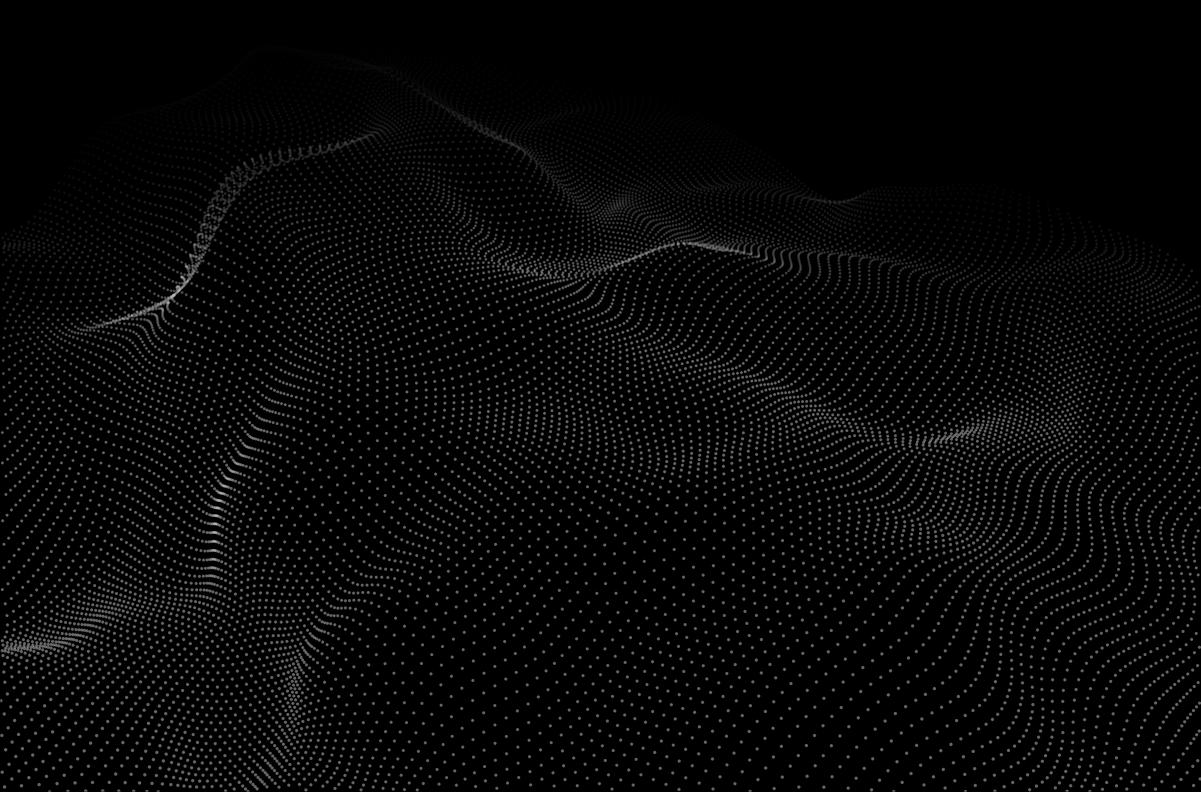
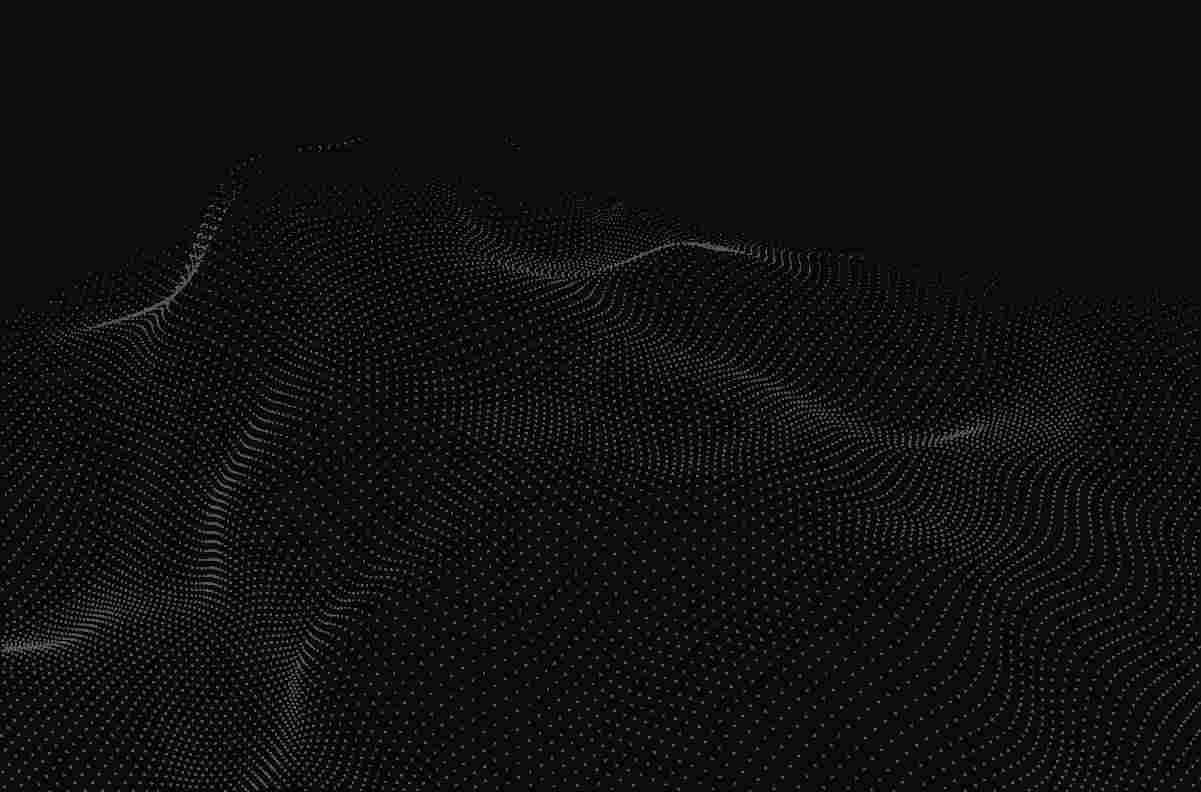
Eliminate the Over load

diff --git a/index.html b/index.html
@@ -6,13 +6,13 @@
     <meta charset="UTF-8" />
     <meta name="viewport" content="width=device-width, initial-scale=1.0" />
     <title>CoudTech-Website(Official)</title>
-    <link rel="preload" href="https://fonts.googleapis.com" />
-    <link rel="preload" href="https://fonts.gstatic.com" crossorigin />
+    <link rel="stylesheet" href="https://fonts.googleapis.com" />
+    <link rel="stylesheet" href="https://fonts.gstatic.com" crossorigin />
     <link
       href="https://fonts.googleapis.com/css2?family=Roboto:ital,wght@0,100;0,300;0,400;0,500;0,700;0,900;1,100;1,300;1,400;1,500;1,700;1,900&display=swap"
       rel="stylesheet" />
-    <link rel="preload" href="Asset/css/bootstrap.min.css" as="style" onload="this.rel='stylesheet'" defer>
-    <link rel="preload" href="Asset/css/all.min.css" as="style" onload="this.rel='stylesheet'" defer>
+    <link rel="stylesheet" href="Asset/css/bootstrap.min.css" as="style" onload="this.rel='stylesheet'" defer>
+    <link rel="stylesheet" href="Asset/css/all.min.css" as="style" onload="this.rel='stylesheet'" defer>
     <link rel="stylesheet" href="Asset/css/style.css" />
   </head>
   <body>

diff --git a/Asset/css/style.css b/Asset/css/style.css
@@ -91,7 +91,7 @@ button.btn.btn-primary {
   background-position: center;
   background-size: cover;
   background-repeat: no-repeat;
-  opacity: 0.1;
+  opacity: 0.25;
 }
 .home-section .container {
   width: 100%;
